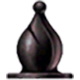
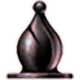
adjust brightness of chesspieces

diff --git a/Wizard Chess/platforms/browser/www/multiple.html b/Wizard Chess/platforms/browser/www/multiple.html
@@ -162,7 +162,7 @@
     updateStatus();
 </script>
 </div>
-<div class="container text-center"><a class="button" href="index.html">Back to main menu</a></p></div>
+<div class="container text-center"><p><a href="index.html"><img class="option" src="src/img/img_button_backToMain_659x98.png" alt="Back to main menu"></a></p></div>
 <div class="navbar-fixed-bottom text-center"><p><audio autoplay>
     <source src="src/audio/bgm.mp3" type="audio/mpeg">
     Your browser does not support the audio element.

diff --git a/Wizard Chess/platforms/browser/www/single.html b/Wizard Chess/platforms/browser/www/single.html
@@ -178,7 +178,7 @@
     updateStatus();
 </script>
 </div>
-<div class="container text-center"><a class="button" href="index.html">Back to main menu</a></p></div>
+<div class="container text-center"><p><a href="index.html"><img class="option" src="src/img/img_button_backToMain_659x98.png" alt="Back to main menu"></a></p></div>
 <div class="navbar-fixed-bottom text-center"><p><audio autoplay>
     <source src="src/audio/bgm.mp3" type="audio/mpeg">
     Your browser does not support the audio element.

diff --git a/Wizard Chess/www/multiple.html b/Wizard Chess/www/multiple.html
@@ -162,7 +162,7 @@
     updateStatus();
 </script>
 </div>
-<div class="container text-center"><a class="button" href="index.html">Back to main menu</a></p></div>
+<div class="container text-center"><p><a href="index.html"><img class="option" src="src/img/img_button_backToMain_659x98.png" alt="Back to main menu"></a></p></div>
 <div class="navbar-fixed-bottom text-center"><p><audio autoplay>
     <source src="src/audio/bgm.mp3" type="audio/mpeg">
     Your browser does not support the audio element.

diff --git a/Wizard Chess/www/single.html b/Wizard Chess/www/single.html
@@ -178,7 +178,7 @@
     updateStatus();
 </script>
 </div>
-<div class="container text-center"><a class="button" href="index.html">Back to main menu</a></p></div>
+<div class="container text-center"><p><a href="index.html"><img class="option" src="src/img/img_button_backToMain_659x98.png" alt="Back to main menu"></a></p></div>
 <div class="navbar-fixed-bottom text-center"><p><audio autoplay>
     <source src="src/audio/bgm.mp3" type="audio/mpeg">
     Your browser does not support the audio element.

diff --git a/Wizard Chess/platforms/browser/www/src/css/chessboard-0.3.0.css b/Wizard Chess/platforms/browser/www/src/css/chessboard-0.3.0.css
@@ -79,6 +79,6 @@
   max-width: 350px;
 }
 
-.footer{
+p{
   color: silver;
 }

diff --git a/Wizard Chess/www/src/css/chessboard-0.3.0.css b/Wizard Chess/www/src/css/chessboard-0.3.0.css
@@ -79,6 +79,6 @@
   max-width: 350px;
 }
 
-.footer{
+p{
   color: silver;
 }
